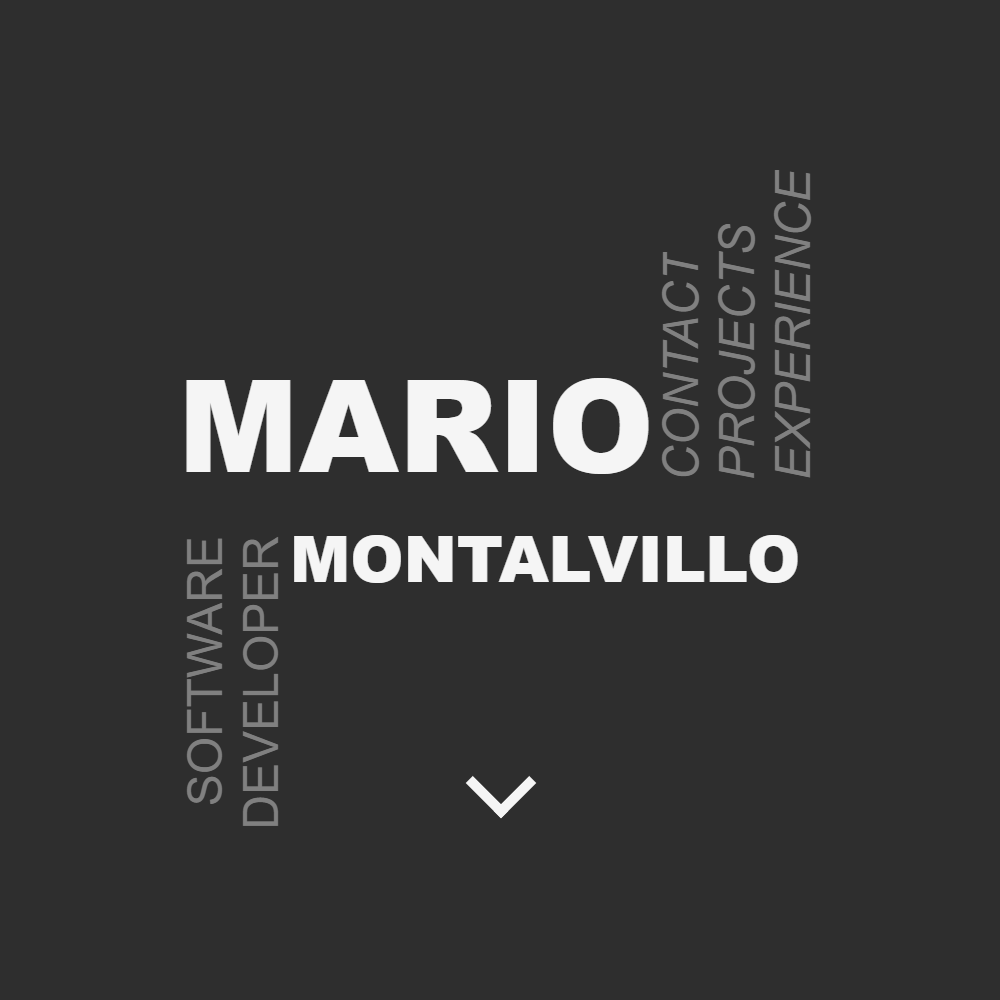
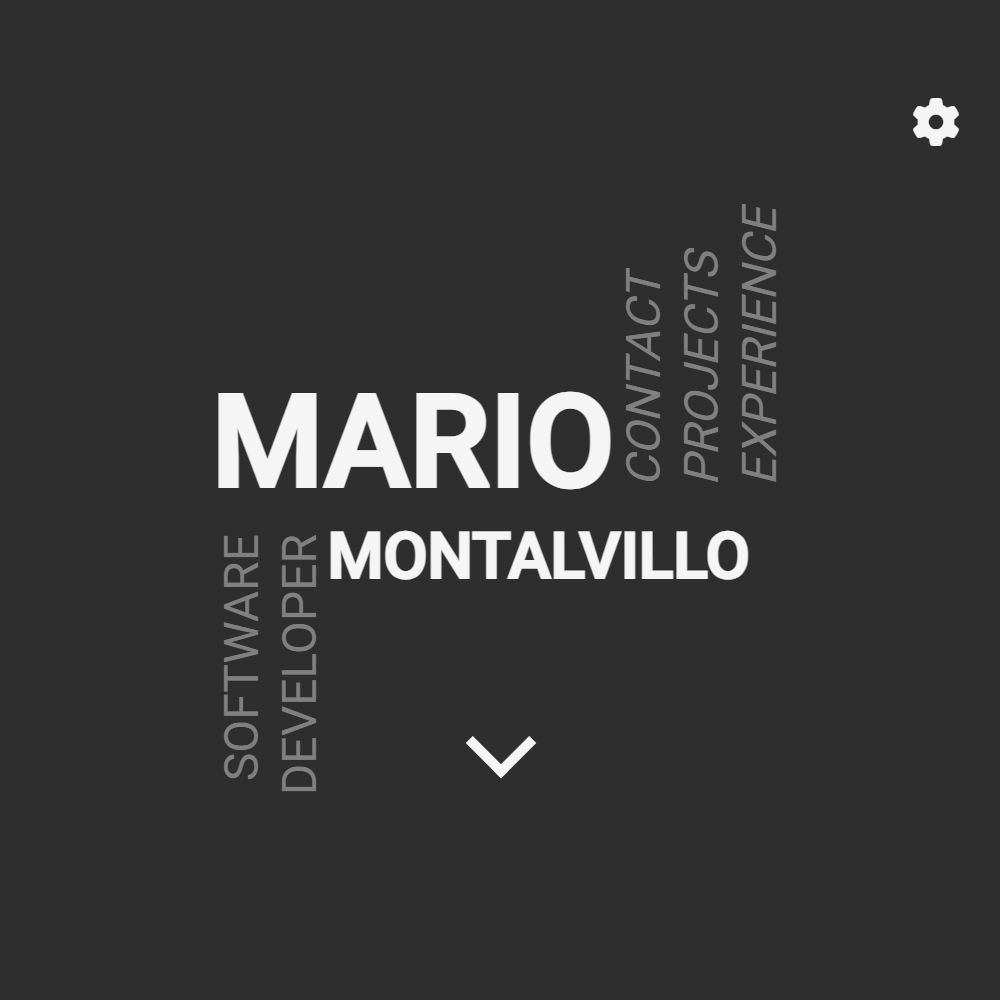
texto traducidos

diff --git a/src/environments/environment.ts b/src/environments/environment.ts
@@ -16,21 +16,22 @@ export const environment = {
                 logo: '/assets/media/imgs/getronics.jpeg',
                 url: 'https://www.getronics.com'
             },
-            position: 'software developer',
+            position: 'Software Developer',
+            description: 'e-s-getronics-experience',
             startDate: new Date("2022-03-19"),
             endDate: new Date(),
-            technologies: ['SpringBoot', 'SpringBatch', 'OpenApi', 'Angular', 'OracleSQL']
+            technologies: ['Angular', 'Angular Material', 'JasperReport', 'Java Microservicios', 'Maven', 'OpenAPI', 'Oracle SQL', 'Spring Batch', 'Spring Boot', 'Swagger']
         }
     ],
     projects: [
         {
             name: 'portfolio',
-            description: 'Personal portfolio built with Angular. It is designed to present my professional experience, personal projects, and contact details in a modern and interactive way. The portfolio provides potential employers and collaborators with an overview of my skills and accomplishments.',
+            description: 'p-s-portfolio',
             images: [
                 "/assets/media/imgs/portfolio00.png",
                 "/assets/media/imgs/portfolio01.png",
-                "/assets/media/imgs/portfolio00.png",
-                "/assets/media/imgs/portfolio00.png"
+                "/assets/media/imgs/portfolio02.png",
+                "/assets/media/imgs/portfolio03.png"
             ],
             technologies: ['Angular', 'Angular Material', 'Animate On Scroll Library (AOS)'],
             links: [

diff --git a/src/app/components/project-card/project-card.component.ts b/src/app/components/project-card/project-card.component.ts
@@ -4,13 +4,14 @@ import { CommonModule } from '@angular/common';
 import { TechnologyListComponent } from '../technology-list/technology-list.component';
 import { LinkListComponent } from "../link-list/link-list.component";
 import { ProjectGalleryComponent } from "../project-gallery/project-gallery.component";
+import { TranslateModule } from '@ngx-translate/core';
 
 @Component({
     selector: 'app-project-card',
     templateUrl: 'project-card.component.html',
     styleUrl: 'project-card.component.scss',
     standalone: true,
-    imports: [CommonModule, TechnologyListComponent, LinkListComponent, ProjectGalleryComponent]
+    imports: [CommonModule, TechnologyListComponent, LinkListComponent, ProjectGalleryComponent, TranslateModule]
 })
 
 export class ProjectCardComponent {

diff --git a/src/app/components/footer/footer.component.html b/src/app/components/footer/footer.component.html
@@ -1,8 +1,8 @@
 <footer id="contact" class="section">
     <header class="section-title" data-aos="fade-up">{{'contact' | translate}}</header>
     <div class="card-subtitle">
-        <div data-aos="fade-up" data-aos-delay="400">{{'footer-interested' | translate}}</div>
-        <div data-aos="fade-up"  data-aos-delay="800">{{'footer-send-email' | translate}}</div>
+        <div data-aos="fade-up" data-aos-delay="400">{{'f-interested' | translate}}</div>
+        <div data-aos="fade-up"  data-aos-delay="800">{{'f-send-email' | translate}}</div>
     </div>
     <a class="contact-link underline" data-aos="fade-up"  data-aos-delay="1200" [href]="'mailto:' + email">{{email}}</a>
     <app-link-list [links]="links"/>

diff --git a/src/classes/experience.class.ts b/src/classes/experience.class.ts
@@ -3,13 +3,15 @@ import { Company } from "./company.class";
 export class Experience {
     company: Company;
     position: string;
+    description: string;
     startDate: Date;
     endDate: Date;
     technologies: Array<string>;
 
-    constructor(company: Company, position: string, startDate: Date, endDate: Date, technologies: Array<string>) {
+    constructor(company: Company, position: string, description: string, startDate: Date, endDate: Date, technologies: Array<string>) {
         this.company = company;
         this.position = position;
+        this.description = description;
         this.startDate = startDate;
         this.endDate = endDate;
         this.technologies = technologies;

diff --git a/src/app/components/experience-card/experience-card.component.ts b/src/app/components/experience-card/experience-card.component.ts
@@ -2,13 +2,14 @@ import { Component, Input } from '@angular/core';
 import { Experience } from '../../../classes/experience.class';
 import { CommonModule } from '@angular/common';
 import { TechnologyListComponent } from '../technology-list/technology-list.component';
+import { TranslateModule } from '@ngx-translate/core';
 
 @Component({
     selector: 'app-experience-card',
     templateUrl: 'experience-card.component.html',
     styleUrl: 'experience-card.component.scss',
     standalone: true,
-    imports: [CommonModule, TechnologyListComponent]
+    imports: [CommonModule, TechnologyListComponent, TranslateModule]
 })
 
 export class ExperienceCardComponent {

diff --git a/src/app/components/project-card/project-card.component.html b/src/app/components/project-card/project-card.component.html
@@ -1,11 +1,11 @@
 <div class="project">
     <div class="screenshots" data-aos="flip-down" data-aos-delay="800">
-        <app-project-gallery [project]="project"/>
+        <app-project-gallery [project]="project" />
     </div>
     <div class="info">
         <header class="card-title">{{project.name | uppercase}}</header>
         <main>
-            <div class="description">{{project.description}}</div>
+            <div class="description">{{project.description | translate}}</div>
             <app-technology-list [technologies]="project.technologies" />
         </main>
         <footer>

diff --git a/src/app/components/experience-card/experience-card.component.html b/src/app/components/experience-card/experience-card.component.html
@@ -6,9 +6,12 @@
         <div>
             <div class="card-title">{{experience.company.name | uppercase}}</div>
             <div class="card-subtitle">{{experience.position | titlecase}}</div>
-        </div>
+        </div>        
     </header>
     <main>
-        <app-technology-list [technologies]="experience.technologies" />
+        <p>{{ experience.description | translate }}</p>
     </main>
+    <footer>
+        <app-technology-list [technologies]="experience.technologies" />
+    </footer>
 </div>
